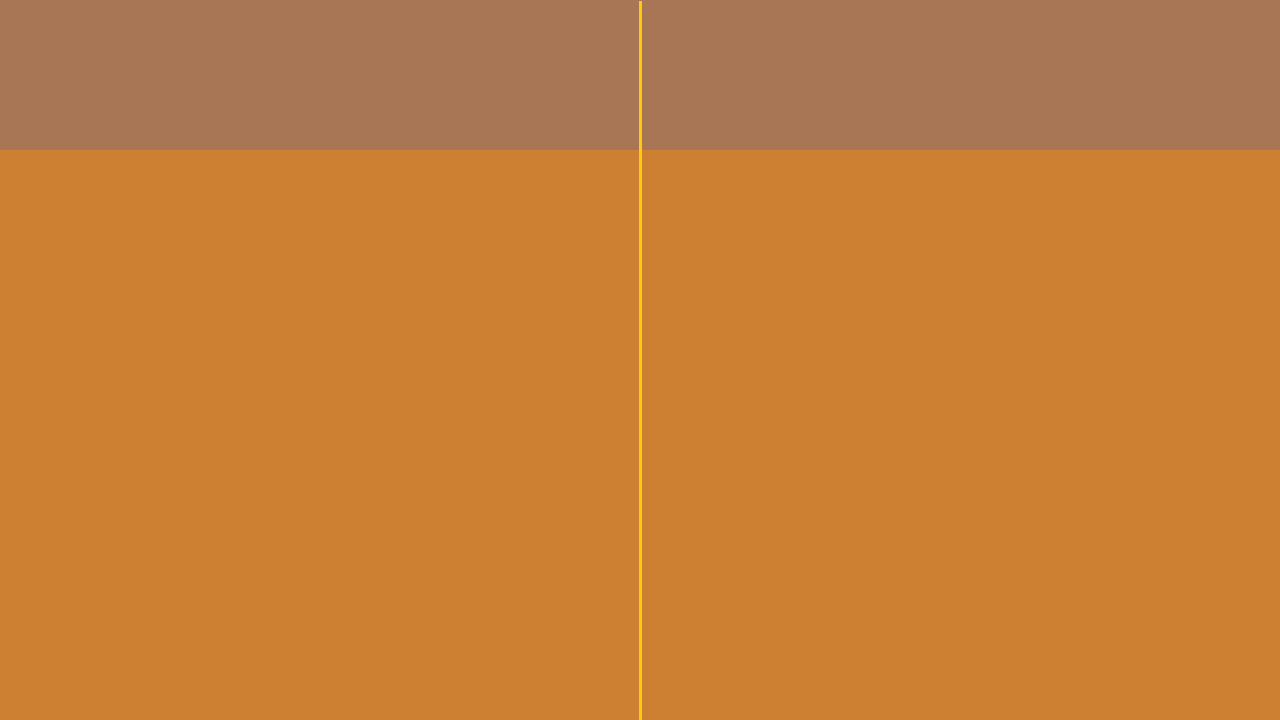
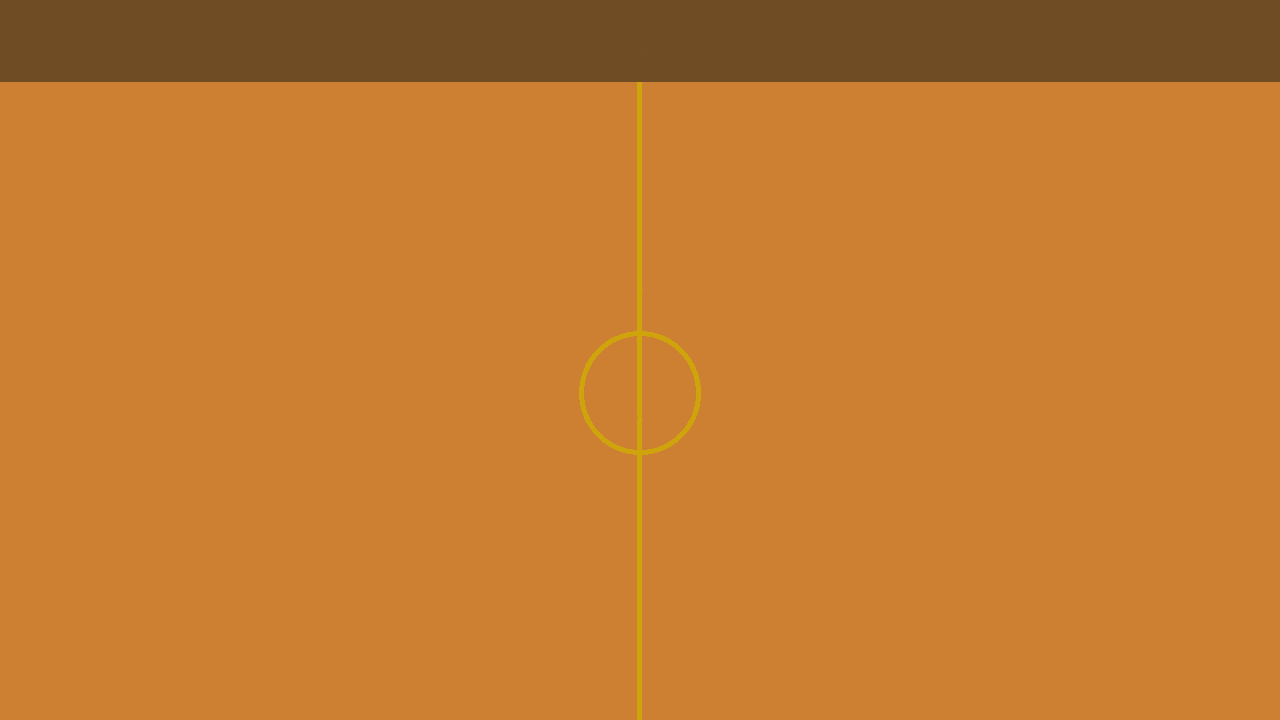
Beta version

diff --git a/game.py b/game.py
@@ -26,7 +26,7 @@ def standart_left_platform():
     global speed_of_left_platform
     global score_of_player_1
     
-    left_platform_heigth = 180
+    left_platform_heigth = 150
     if score_of_player_1 > 6:
         left_platform_heigth /= 1.5
     
@@ -43,7 +43,7 @@ def standart_right_platform():
     global speed_of_right_platform
     global score_of_player_2
     
-    right_platform_heigth = 180
+    right_platform_heigth = 150
     if score_of_player_2 > 6:
         right_platform_heigth /= 1.5
     
@@ -77,31 +77,31 @@ verdana_pro_semibold_40 = pygame.font.Font(verdana_pro_semibold_path, 40)
 
 #screen
 def images_on_screen():
-    window.fill(color_of_background)
     
     score_1 = britannic_bold_font_100.render(str(score_of_player_1 // 10) + str(score_of_player_1 % 10), True, color_of_score_font)
     score_2 = britannic_bold_font_100.render(str(score_of_player_2 // 10) + str(score_of_player_2 % 10), True, color_of_score_font)
     
+    window.blit(background, [0, 0])
     window.blit(score_1, [window_width // 2 - 320, top_menu_height + 20])
     window.blit(score_2, [window_width // 2 + 250, top_menu_height + 20])
-    window.blit(top_menu_surface, [0, 0])
     
+    pygame.draw.circle(window, color_of_ball, ball_position.center, ball_radius)
     pygame.draw.rect(window, color_for_platforms, left_platform_position)
     pygame.draw.rect(window, color_for_platforms, right_platform_position)
 
 
-top_menu_surface = pygame.image.load('C:/Users/justt/OneDrive/Рабочий стол/top_menu.jpg')
-top_menu_height = 150
+background = pygame.image.load('C:/Users/justt/OneDrive/Рабочий стол/Peng Pong/background.png')
+top_menu_height = 80
 
 #platforms
 speed_of_left_platform = 6.5
 speed_of_right_platform = 6.5
 
 left_platform_width = 20
-left_platform_heigth = 180
+left_platform_heigth = 150
 
 right_platform_width = 20
-right_platform_heigth = 180
+right_platform_heigth = 150
 
 left_platform_position = pygame.rect.Rect(left_platform_width * 5,
                                           window_heigth // 2 - left_platform_heigth // 2 + 70,
@@ -115,12 +115,12 @@ right_platform_position = pygame.rect.Rect(window_width - right_platform_width *
 
 
 #ball
-ball_radius = 15
+ball_radius = 12
 ball_speed = 5
 ball_x_speed = ball_speed
 ball_y_speed = 0
-ball_position = pygame.rect.Rect(window_width // 2,
-                                 window_heigth // 2,
+ball_position = pygame.rect.Rect(window_width // 2 - 12,
+                                 window_heigth // 2 + 22,
                                  ball_radius * 2,
                                  ball_radius * 2)
 
@@ -234,11 +234,6 @@ while game_is_running:
             lose = True
             ball_speed = 5
             timer_before_match = None
-        
-        
-        pygame.draw.circle(window, color_of_ball, ball_position.center, ball_radius)
-        pygame.draw.rect(window, color_for_platforms, left_platform_position)
-        pygame.draw.rect(window, color_for_platforms, right_platform_position) 
                
     
     #pause after match
@@ -275,7 +270,7 @@ while game_is_running:
             count_click_of_ready_p1 = 0
             count_click_of_ready_p2 = 0
             
-            ball_position.center = [window_width // 2, window_heigth // 2]
+            ball_position.center = [window_width / 2, window_heigth / 2 + 35]
             left_platform_position.centery = window_heigth // 2 + 70
             right_platform_position.centery = window_heigth // 2 + 70
             
